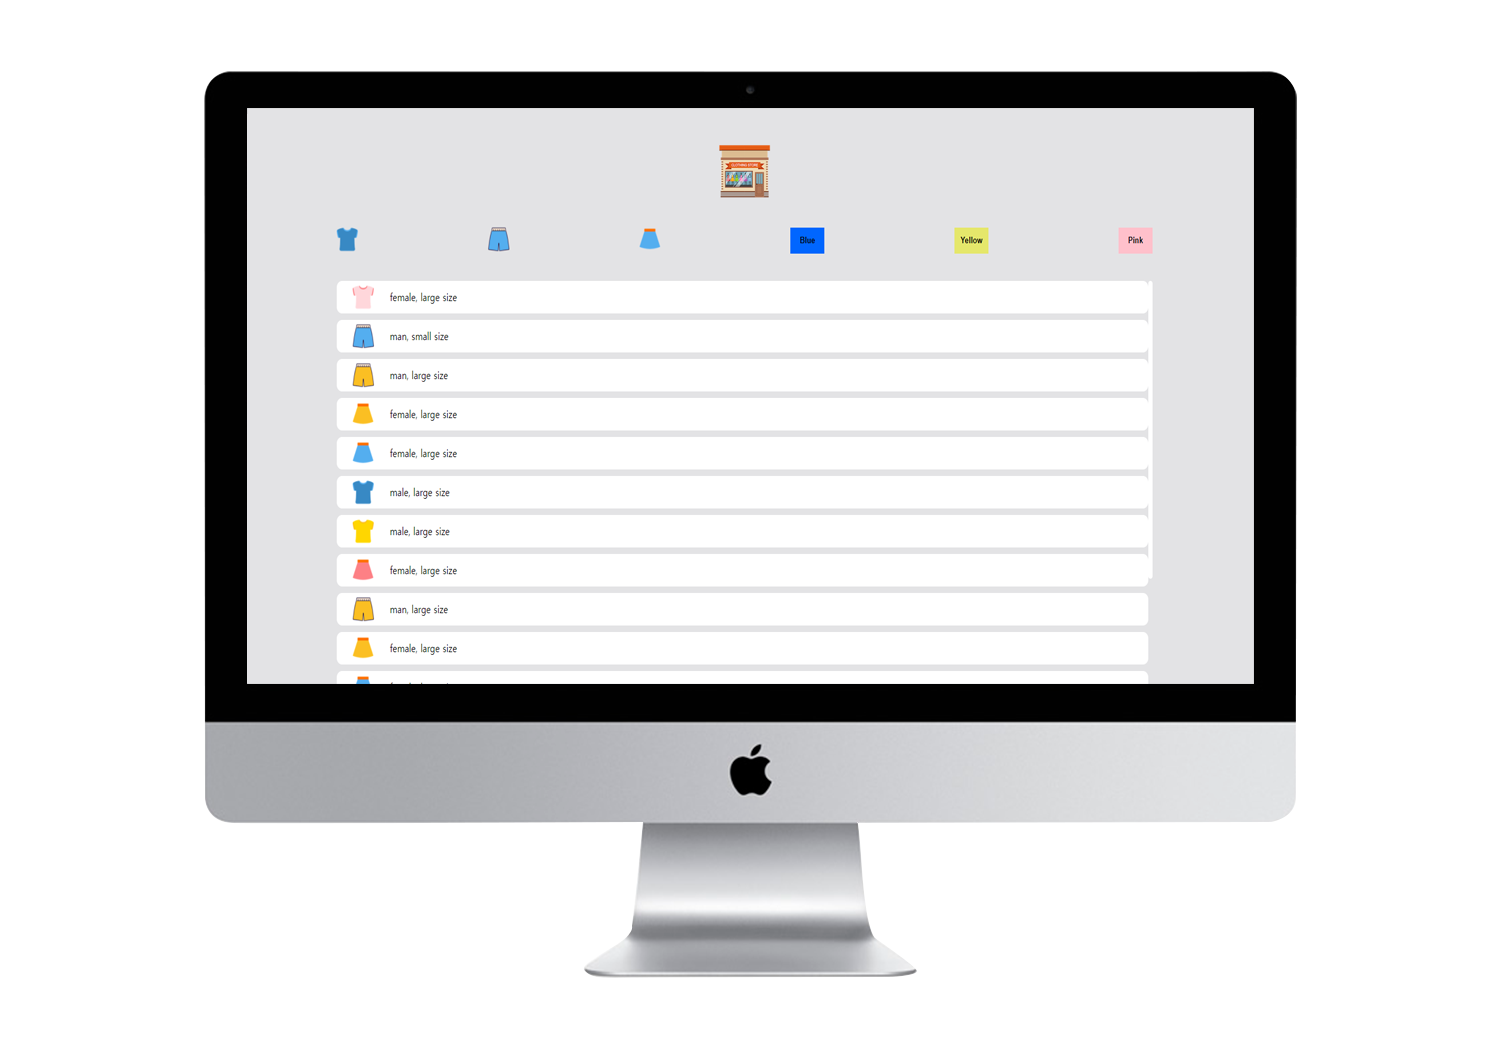
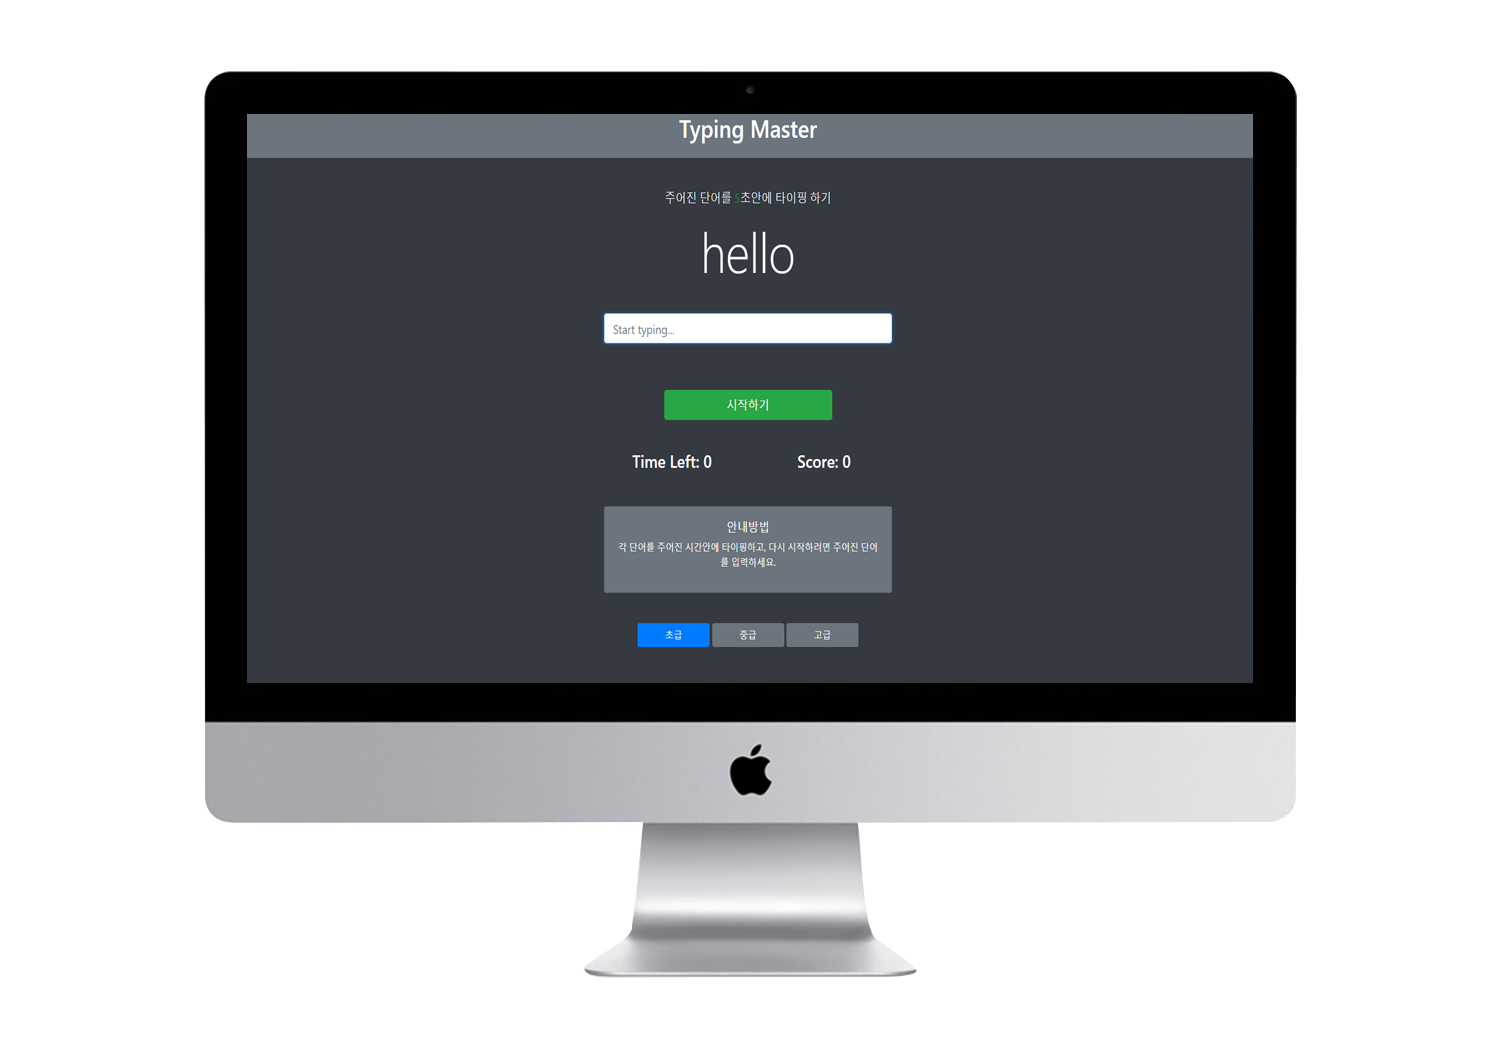
4

diff --git a/index.html b/index.html
@@ -163,10 +163,10 @@
                 <h1>PROJECT</h1>
                 <div>
                     <div class="item">
-                        <div class="left-content">
+                        <div class="left-content"  data-aos="fade-down-right" data-aos-duration="1500" data-aos-once="true">
                             <img src="./assets/images/1.png" alt="사이트1">
                         </div>
-                        <div class="right-content">
+                        <div class="right-content delay-"  data-aos="fade-down-left" data-aos-delay="500" data-aos-duration="1500" data-aos-once="true">
                             <h2>1. Deagu Opera house</h2>
                             <p>웹 표준 코딩 / 반응형 웹사이트</p>
                             <p>대구 오페라사이트 입니다. 이미지 슬라이더 <br>
@@ -207,12 +207,12 @@
                             <img src="./assets/images/4.png" alt="사이트4">
                         </div>
                         <div class="right-content">
-                            <h2>4. My Dressroom</h2>
+                            <h2>4. Typing Game</h2>
                             <p>바닐라 자바스크립트</p>
-                            <p>다양한 옷들을 분류하여 볼 수 있는 <br>
-                            미니 프로젝트입니다. 바닐라 자바스크립트를 <br>
-                            활용하여 배열과 객체를 다루어서 만든 웹사이트</p>  
-                            <a href="https://wldnweb3.herokuapp.com/index.html" target="_blank">View More</a>
+                            <p>부트스트랩 라이브러리를 사용하여 디자인 하였으며, <br>
+                                바닐라 자바스크립트를 활용한 타이핑 게임 입니다.<br>
+                            (Axios를 사용하여 랜덤한 단어 api를 가져오게 하였습니다.)</p>  
+                            <a href="https://wldnweb8.herokuapp.com/index.html" target="_blank">View More</a>
                         </div>
                     </div>
 
